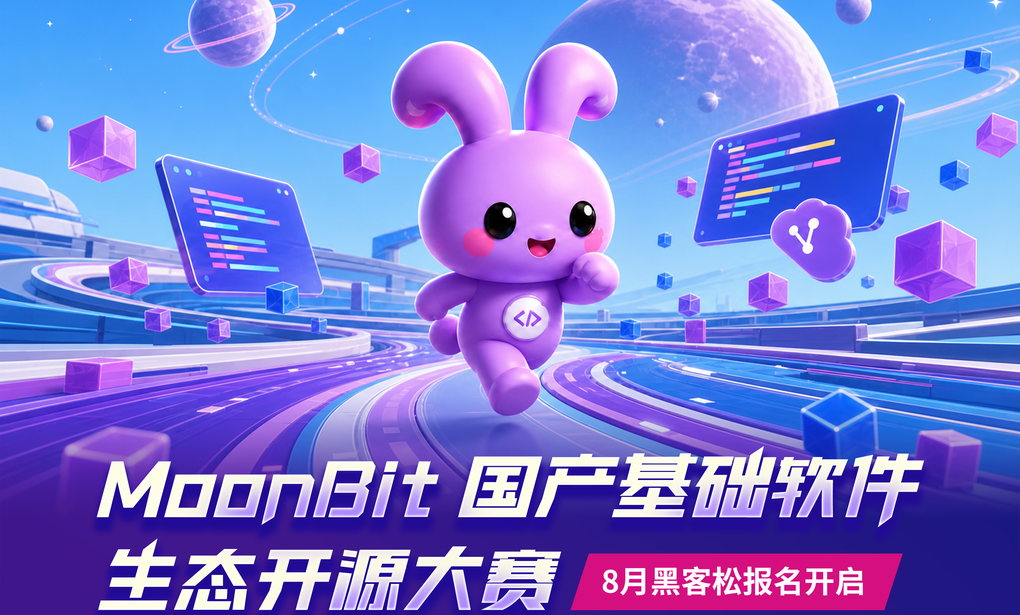
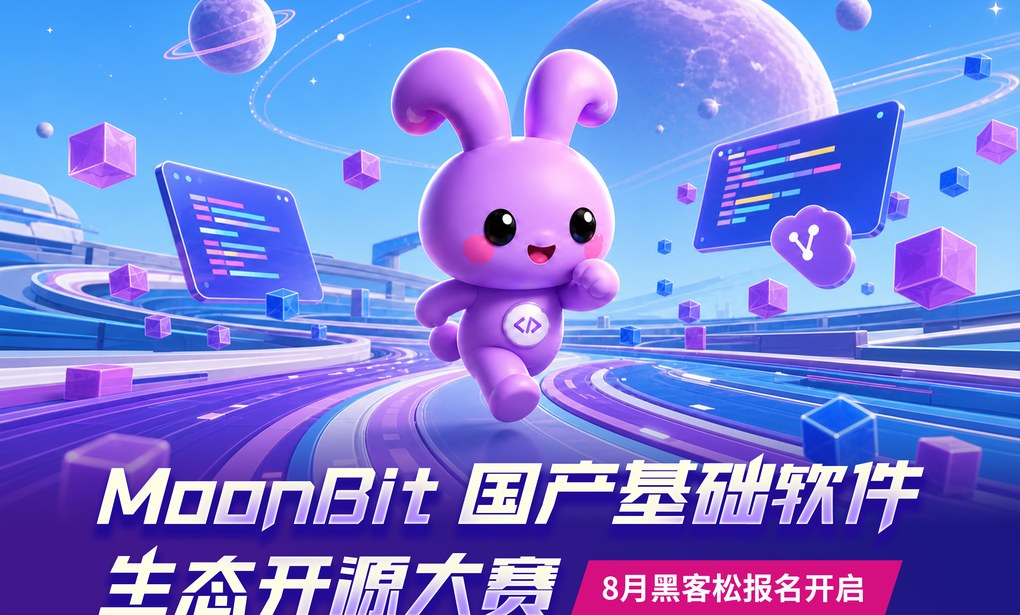
Replace August hackathon poster

diff --git a/site-assets/main.js b/site-assets/main.js
@@ -798,7 +798,7 @@ const _M0FP38zongen0116mgpic2026_2dsite4main31view__qq__float_2econstr_2f3848 = 
 const _M0FP38zongen0116mgpic2026_2dsite4main31view__qq__float_2econstr_2f3849 = 1;
 const _M0FP38zongen0116mgpic2026_2dsite4main31view__qq__float_2econstr_2f3850 = "noreferrer";
 const _M0FP38zongen0116mgpic2026_2dsite4main31view__qq__float_2econstr_2f3851 = "hackathon-poster-preview";
-const _M0FP38zongen0116mgpic2026_2dsite4main31view__qq__float_2econstr_2f3852 = "site-assets/hackathon-august-poster-preview.jpg?v=20260722-prod-1";
+const _M0FP38zongen0116mgpic2026_2dsite4main31view__qq__float_2econstr_2f3852 = "site-assets/hackathon-august-poster-preview.jpg?v=20260722-poster-2";
 const _M0FP38zongen0116mgpic2026_2dsite4main31view__qq__float_2econstr_2f3853 = "hackathon-poster-overlay";
 const _M0FP38zongen0116mgpic2026_2dsite4main31view__qq__float_2econstr_2f3854 = "hackathon-float-body";
 const _M0FP38zongen0116mgpic2026_2dsite4main31view__qq__float_2econstr_2f3855 = "hackathon-summary";
@@ -8973,7 +8973,7 @@ function _M0FP38zongen0116mgpic2026_2dsite4main12view__footer(model) {
   return _M0FP319moonbit_2dcommunity7rabbita4html6footerGRPB5ArrayGRP319moonbit_2dcommunity7rabbita4html4HtmlEE(_M0DTPC16option6OptionGRPB5ArrayGsEE4None__, undefined, _M0FP38zongen0116mgpic2026_2dsite4main28view__footer_2econstr_2f3836, undefined, -1, undefined, [_M0FP319moonbit_2dcommunity7rabbita4html3divGRPB5ArrayGRP319moonbit_2dcommunity7rabbita4html4HtmlEE(_M0DTPC16option6OptionGRPB5ArrayGsEE4None__, undefined, _M0FP38zongen0116mgpic2026_2dsite4main28view__footer_2econstr_2f3837, undefined, -1, undefined, undefined, undefined, undefined, undefined, undefined, undefined, [_M0FP319moonbit_2dcommunity7rabbita4html3divGRPB5ArrayGRP319moonbit_2dcommunity7rabbita4html4HtmlEE(_M0DTPC16option6OptionGRPB5ArrayGsEE4None__, undefined, _M0FP38zongen0116mgpic2026_2dsite4main28view__footer_2econstr_2f3838, undefined, -1, undefined, undefined, undefined, undefined, undefined, undefined, undefined, [_M0FP319moonbit_2dcommunity7rabbita4html6strongGsE(_M0DTPC16option6OptionGRPB5ArrayGsEE4None__, undefined, undefined, undefined, -1, undefined, _M0FP38zongen0116mgpic2026_2dsite4main1t(model.locale, "MoonBit 国产基础软件生态开源大赛", "MoonBit Open Source Contest")), _M0FP319moonbit_2dcommunity7rabbita4html1pGsE(_M0DTPC16option6OptionGRPB5ArrayGsEE4None__, undefined, undefined, undefined, -1, undefined, _M0FP38zongen0116mgpic2026_2dsite4main1t(model.locale, "2026 官方网站", "2026 MoonBit Open Source Ecosystem Competition"))]), _M0FP319moonbit_2dcommunity7rabbita4html3divGRPB5ArrayGRP319moonbit_2dcommunity7rabbita4html4HtmlEE(_M0DTPC16option6OptionGRPB5ArrayGsEE4None__, undefined, _M0FP38zongen0116mgpic2026_2dsite4main28view__footer_2econstr_2f3839, undefined, -1, undefined, undefined, undefined, undefined, undefined, undefined, undefined, [_M0FP319moonbit_2dcommunity7rabbita4html1aGsE(_M0DTPC16option6OptionGRPB5ArrayGsEE4None__, undefined, undefined, undefined, -1, "https://www.moonbitlang.cn/", _M0FP38zongen0116mgpic2026_2dsite4main28view__footer_2econstr_2f3840, _M0FP38zongen0116mgpic2026_2dsite4main28view__footer_2econstr_2f3841, undefined, undefined, _M0FP38zongen0116mgpic2026_2dsite4main1t(model.locale, "MoonBit 中文官网", "MoonBit website"), -1), _M0FP319moonbit_2dcommunity7rabbita4html1aGsE(_M0DTPC16option6OptionGRPB5ArrayGsEE4None__, undefined, undefined, undefined, -1, "https://mooncakes.io/", _M0FP38zongen0116mgpic2026_2dsite4main28view__footer_2econstr_2f3842, _M0FP38zongen0116mgpic2026_2dsite4main28view__footer_2econstr_2f3843, undefined, undefined, "Mooncakes", -1), _M0FP319moonbit_2dcommunity7rabbita4html1aGsE(_M0DTPC16option6OptionGRPB5ArrayGsEE4None__, undefined, undefined, undefined, -1, "https://github.com/zongen01/MGPIC2026", _M0FP38zongen0116mgpic2026_2dsite4main28view__footer_2econstr_2f3844, _M0FP38zongen0116mgpic2026_2dsite4main28view__footer_2econstr_2f3845, undefined, undefined, "GitHub", -1)])])]);
 }
 function _M0FP38zongen0116mgpic2026_2dsite4main15view__qq__float(model) {
-  return _M0FP319moonbit_2dcommunity7rabbita4html3divGRPB5ArrayGRP319moonbit_2dcommunity7rabbita4html4HtmlEE(_M0DTPC16option6OptionGRPB5ArrayGsEE4None__, undefined, _M0FP38zongen0116mgpic2026_2dsite4main31view__qq__float_2econstr_2f3847, undefined, -1, undefined, undefined, undefined, undefined, undefined, undefined, undefined, [_M0FP319moonbit_2dcommunity7rabbita4html1aGRPB5ArrayGRP319moonbit_2dcommunity7rabbita4html4HtmlEE(_M0DTPC16option6OptionGRPB5ArrayGsEE4None__, undefined, _M0FP38zongen0116mgpic2026_2dsite4main31view__qq__float_2econstr_2f3848, undefined, -1, "site-assets/hackathon-august-poster.jpg", _M0FP38zongen0116mgpic2026_2dsite4main31view__qq__float_2econstr_2f3849, _M0FP38zongen0116mgpic2026_2dsite4main31view__qq__float_2econstr_2f3850, undefined, undefined, [_M0FP319moonbit_2dcommunity7rabbita4html3imgGRP319moonbit_2dcommunity7rabbita4html4HtmlE(_M0DTPC16option6OptionGRPB5ArrayGsEE4None__, undefined, _M0FP38zongen0116mgpic2026_2dsite4main31view__qq__float_2econstr_2f3851, -1, _M0FP38zongen0116mgpic2026_2dsite4main31view__qq__float_2econstr_2f3852, _M0FP38zongen0116mgpic2026_2dsite4main1t(model.locale, "MoonBit 八月黑客松活动海报", "MoonBit August Hackathon poster"), undefined, undefined, undefined, undefined, undefined, undefined, undefined, undefined, _M0FP319moonbit_2dcommunity7rabbita4html7nothing), _M0FP319moonbit_2dcommunity7rabbita4html3divGRPB5ArrayGRP319moonbit_2dcommunity7rabbita4html4HtmlEE(_M0DTPC16option6OptionGRPB5ArrayGsEE4None__, undefined, _M0FP38zongen0116mgpic2026_2dsite4main31view__qq__float_2econstr_2f3853, undefined, -1, undefined, undefined, undefined, undefined, undefined, undefined, undefined, [_M0FP319moonbit_2dcommunity7rabbita4html4spanGsE(_M0DTPC16option6OptionGRPB5ArrayGsEE4None__, undefined, undefined, undefined, -1, undefined, _M0FP38zongen0116mgpic2026_2dsite4main1t(model.locale, "8月黑客松", "August Hackathon")), _M0FP319moonbit_2dcommunity7rabbita4html6strongGsE(_M0DTPC16option6OptionGRPB5ArrayGsEE4None__, undefined, undefined, undefined, -1, undefined, _M0FP38zongen0116mgpic2026_2dsite4main1t(model.locale, "国产基础软件生态开源大赛", "Open Source Ecosystem Contest"))])], -1), _M0FP319moonbit_2dcommunity7rabbita4html3divGRPB5ArrayGRP319moonbit_2dcommunity7rabbita4html4HtmlEE(_M0DTPC16option6OptionGRPB5ArrayGsEE4None__, undefined, _M0FP38zongen0116mgpic2026_2dsite4main31view__qq__float_2econstr_2f3854, undefined, -1, undefined, undefined, undefined, undefined, undefined, undefined, undefined, [_M0FP319moonbit_2dcommunity7rabbita4html3divGRPB5ArrayGRP319moonbit_2dcommunity7rabbita4html4HtmlEE(_M0DTPC16option6OptionGRPB5ArrayGsEE4None__, undefined, _M0FP38zongen0116mgpic2026_2dsite4main31view__qq__float_2econstr_2f3855, undefined, -1, undefined, undefined, undefined, undefined, undefined, undefined, undefined, [_M0FP319moonbit_2dcommunity7rabbita4html6strongGsE(_M0DTPC16option6OptionGRPB5ArrayGsEE4None__, undefined, undefined, undefined, -1, undefined, _M0FP38zongen0116mgpic2026_2dsite4main1t(model.locale, "活动说明", "About")), _M0FP319moonbit_2dcommunity7rabbita4html1pGsE(_M0DTPC16option6OptionGRPB5ArrayGsEE4None__, undefined, undefined, undefined, -1, undefined, _M0FP38zongen0116mgpic2026_2dsite4main1t(model.locale, "初审结束后，为回应开发者反馈，MoonBit 增设「8月黑客松」。", "Following developer feedback after the initial review, MoonBit is adding an August Hackathon.")), _M0FP319moonbit_2dcommunity7rabbita4html3divGRPB5ArrayGRP319moonbit_2dcommunity7rabbita4html4HtmlEE(_M0DTPC16option6OptionGRPB5ArrayGsEE4None__, undefined, _M0FP38zongen0116mgpic2026_2dsite4main31view__qq__float_2econstr_2f3856, undefined, -1, undefined, undefined, undefined, undefined, undefined, undefined, undefined, [_M0FP319moonbit_2dcommunity7rabbita4html4spanGsE(_M0DTPC16option6OptionGRPB5ArrayGsEE4None__, undefined, _M0FP38zongen0116mgpic2026_2dsite4main31view__qq__float_2econstr_2f3857, undefined, -1, undefined, _M0FP38zongen0116mgpic2026_2dsite4main1t(model.locale, "重要说明", "Important")), _M0FP319moonbit_2dcommunity7rabbita4html4spanGsE(_M0DTPC16option6OptionGRPB5ArrayGsEE4None__, undefined, _M0FP38zongen0116mgpic2026_2dsite4main31view__qq__float_2econstr_2f3858, undefined, -1, undefined, _M0FP38zongen0116mgpic2026_2dsite4main1t(model.locale, "规则与验收标准基本一致，", "Rules and acceptance standards remain broadly consistent,")), _M0FP319moonbit_2dcommunity7rabbita4html6strongGsE(_M0DTPC16option6OptionGRPB5ArrayGsEE4None__, undefined, undefined, undefined, -1, undefined, _M0FP38zongen0116mgpic2026_2dsite4main1t(model.locale, "但不参与决赛评选。", "but projects do not enter the contest finals."))]), _M0FP319moonbit_2dcommunity7rabbita4html1pGsE(_M0DTPC16option6OptionGRPB5ArrayGsEE4None__, undefined, _M0FP38zongen0116mgpic2026_2dsite4main31view__qq__float_2econstr_2f3859, undefined, -1, undefined, _M0FP38zongen0116mgpic2026_2dsite4main1t(model.locale, "欢迎提交全新项目；重复、拆分或简单修改项目不计入验收与奖励。", "New projects are welcome; duplicate, split, or lightly modified entries are not eligible for acceptance or rewards."))]), _M0FP319moonbit_2dcommunity7rabbita4html3divGRPB5ArrayGRP319moonbit_2dcommunity7rabbita4html4HtmlEE(_M0DTPC16option6OptionGRPB5ArrayGsEE4None__, undefined, _M0FP38zongen0116mgpic2026_2dsite4main31view__qq__float_2econstr_2f3860, undefined, -1, undefined, undefined, undefined, undefined, undefined, undefined, undefined, [_M0FP319moonbit_2dcommunity7rabbita4html4spanGsE(_M0DTPC16option6OptionGRPB5ArrayGsEE4None__, undefined, undefined, undefined, -1, undefined, _M0FP38zongen0116mgpic2026_2dsite4main1t(model.locale, "报名截止", "Deadline")), _M0FP319moonbit_2dcommunity7rabbita4html6strongGsE(_M0DTPC16option6OptionGRPB5ArrayGsEE4None__, undefined, undefined, undefined, -1, undefined, "8 月 24 日 24:00")]), _M0FP319moonbit_2dcommunity7rabbita4html3divGRPB5ArrayGRP319moonbit_2dcommunity7rabbita4html4HtmlEE(_M0DTPC16option6OptionGRPB5ArrayGsEE4None__, undefined, _M0FP38zongen0116mgpic2026_2dsite4main31view__qq__float_2econstr_2f3861, undefined, -1, undefined, undefined, undefined, undefined, undefined, undefined, undefined, [_M0FP319moonbit_2dcommunity7rabbita4html1aGRPB5ArrayGRP319moonbit_2dcommunity7rabbita4html4HtmlEE(_M0DTPC16option6OptionGRPB5ArrayGsEE4None__, undefined, _M0FP38zongen0116mgpic2026_2dsite4main31view__qq__float_2econstr_2f3862, undefined, -1, "#base-support", undefined, undefined, undefined, undefined, [_M0FP319moonbit_2dcommunity7rabbita4html6strongGsE(_M0DTPC16option6OptionGRPB5ArrayGsEE4None__, undefined, undefined, undefined, -1, undefined, _M0FP38zongen0116mgpic2026_2dsite4main1t(model.locale, "150 元 + 350 元", "RMB 150 + 350")), _M0FP319moonbit_2dcommunity7rabbita4html4spanGsE(_M0DTPC16option6OptionGRPB5ArrayGsEE4None__, undefined, undefined, undefined, -1, undefined, _M0FP38zongen0116mgpic2026_2dsite4main1t(model.locale, "启动支持 / 完成支持", "Kickoff / completion"))], -1), _M0FP319moonbit_2dcommunity7rabbita4html1aGRPB5ArrayGRP319moonbit_2dcommunity7rabbita4html4HtmlEE(_M0DTPC16option6OptionGRPB5ArrayGsEE4None__, undefined, _M0FP38zongen0116mgpic2026_2dsite4main31view__qq__float_2econstr_2f3863, undefined, -1, "#referral-reward", undefined, undefined, undefined, undefined, [_M0FP319moonbit_2dcommunity7rabbita4html6strongGsE(_M0DTPC16option6OptionGRPB5ArrayGsEE4None__, undefined, undefined, undefined, -1, undefined, "50 元/人"), _M0FP319moonbit_2dcommunity7rabbita4html4spanGsE(_M0DTPC16option6OptionGRPB5ArrayGsEE4None__, undefined, undefined, undefined, -1, undefined, _M0FP38zongen0116mgpic2026_2dsite4main1t(model.locale, "推荐奖励", "Referral"))], -1), _M0FP319moonbit_2dcommunity7rabbita4html1aGRPB5ArrayGRP319moonbit_2dcommunity7rabbita4html4HtmlEE(_M0DTPC16option6OptionGRPB5ArrayGsEE4None__, undefined, _M0FP38zongen0116mgpic2026_2dsite4main31view__qq__float_2econstr_2f3864, undefined, -1, "#compute", undefined, undefined, undefined, undefined, [_M0FP319moonbit_2dcommunity7rabbita4html6strongGsE(_M0DTPC16option6OptionGRPB5ArrayGsEE4None__, undefined, undefined, undefined, -1, undefined, _M0FP38zongen0116mgpic2026_2dsite4main1t(model.locale, "100 元/张", "RMB 100 / credit")), _M0FP319moonbit_2dcommunity7rabbita4html4spanGsE(_M0DTPC16option6OptionGRPB5ArrayGsEE4None__, undefined, undefined, undefined, -1, undefined, _M0FP38zongen0116mgpic2026_2dsite4main1t(model.locale, "GPU 算力券", "GPU credit"))], -1)]), _M0FP319moonbit_2dcommunity7rabbita4html3divGRPB5ArrayGRP319moonbit_2dcommunity7rabbita4html4HtmlEE(_M0DTPC16option6OptionGRPB5ArrayGsEE4None__, undefined, _M0FP38zongen0116mgpic2026_2dsite4main31view__qq__float_2econstr_2f3865, undefined, -1, undefined, undefined, undefined, undefined, undefined, undefined, undefined, [_M0FP319moonbit_2dcommunity7rabbita4html1aGsE(_M0DTPC16option6OptionGRPB5ArrayGsEE4None__, undefined, _M0FP38zongen0116mgpic2026_2dsite4main31view__qq__float_2econstr_2f3866, undefined, -1, "https://www.feishu.cn/share/base/form/shrcnfItHeB1viw56y3cGNGMqub?share_link_type=qrcode&ccm_open_type=form_qrcode", _M0FP38zongen0116mgpic2026_2dsite4main31view__qq__float_2econstr_2f3867, _M0FP38zongen0116mgpic2026_2dsite4main31view__qq__float_2econstr_2f3868, undefined, undefined, _M0FP38zongen0116mgpic2026_2dsite4main1t(model.locale, "立即报名", "Apply now"), -1), _M0FP319moonbit_2dcommunity7rabbita4html1aGsE(_M0DTPC16option6OptionGRPB5ArrayGsEE4None__, undefined, _M0FP38zongen0116mgpic2026_2dsite4main31view__qq__float_2econstr_2f3869, undefined, -1, "https://bxup9uklfcb.feishu.cn/wiki/KNrVwEVFziPHiGkQtwhc6w3gndd", _M0FP38zongen0116mgpic2026_2dsite4main31view__qq__float_2econstr_2f3870, _M0FP38zongen0116mgpic2026_2dsite4main31view__qq__float_2econstr_2f3871, undefined, undefined, _M0FP38zongen0116mgpic2026_2dsite4main1t(model.locale, "活动详情", "Details"), -1)]), _M0FP319moonbit_2dcommunity7rabbita4html3divGRPB5ArrayGRP319moonbit_2dcommunity7rabbita4html4HtmlEE(_M0DTPC16option6OptionGRPB5ArrayGsEE4None__, undefined, _M0FP38zongen0116mgpic2026_2dsite4main31view__qq__float_2econstr_2f3872, undefined, -1, undefined, undefined, undefined, undefined, undefined, undefined, undefined, [_M0FP319moonbit_2dcommunity7rabbita4html1aGRPB5ArrayGRP319moonbit_2dcommunity7rabbita4html4HtmlEE(_M0DTPC16option6OptionGRPB5ArrayGsEE4None__, undefined, _M0FP38zongen0116mgpic2026_2dsite4main31view__qq__float_2econstr_2f3873, undefined, -1, "https://www.feishu.cn/share/base/form/shrcnfItHeB1viw56y3cGNGMqub?share_link_type=qrcode&ccm_open_type=form_qrcode", _M0FP38zongen0116mgpic2026_2dsite4main31view__qq__float_2econstr_2f3874, _M0FP38zongen0116mgpic2026_2dsite4main31view__qq__float_2econstr_2f3875, undefined, undefined, [_M0FP319moonbit_2dcommunity7rabbita4html3divGRPB5ArrayGRP319moonbit_2dcommunity7rabbita4html4HtmlEE(_M0DTPC16option6OptionGRPB5ArrayGsEE4None__, undefined, _M0FP38zongen0116mgpic2026_2dsite4main31view__qq__float_2econstr_2f3876, undefined, -1, undefined, undefined, undefined, undefined, undefined, undefined, undefined, [_M0FP319moonbit_2dcommunity7rabbita4html3divGRPB5ArrayGRP319moonbit_2dcommunity7rabbita4html4HtmlEE(_M0DTPC16option6OptionGRPB5ArrayGsEE4None__, undefined, _M0FP38zongen0116mgpic2026_2dsite4main31view__qq__float_2econstr_2f3877, undefined, -1, undefined, undefined, undefined, undefined, undefined, undefined, undefined, [_M0FP319moonbit_2dcommunity7rabbita4html3imgGRP319moonbit_2dcommunity7rabbita4html4HtmlE(_M0DTPC16option6OptionGRPB5ArrayGsEE4None__, undefined, undefined, -1, _M0FP38zongen0116mgpic2026_2dsite4main31view__qq__float_2econstr_2f3878, _M0FP38zongen0116mgpic2026_2dsite4main1t(model.locale, "赛事报名二维码", "Event registration QR code"), undefined, undefined, undefined, undefined, undefined, undefined, undefined, undefined, _M0FP319moonbit_2dcommunity7rabbita4html7nothing)])]), _M0FP319moonbit_2dcommunity7rabbita4html6strongGsE(_M0DTPC16option6OptionGRPB5ArrayGsEE4None__, undefined, undefined, undefined, -1, undefined, _M0FP38zongen0116mgpic2026_2dsite4main1t(model.locale, "报名二维码", "Registration"))], -1), _M0FP319moonbit_2dcommunity7rabbita4html3divGRPB5ArrayGRP319moonbit_2dcommunity7rabbita4html4HtmlEE(_M0DTPC16option6OptionGRPB5ArrayGsEE4None__, undefined, _M0FP38zongen0116mgpic2026_2dsite4main31view__qq__float_2econstr_2f3879, undefined, -1, undefined, undefined, undefined, undefined, undefined, undefined, undefined, [_M0FP319moonbit_2dcommunity7rabbita4html3divGRPB5ArrayGRP319moonbit_2dcommunity7rabbita4html4HtmlEE(_M0DTPC16option6OptionGRPB5ArrayGsEE4None__, undefined, _M0FP38zongen0116mgpic2026_2dsite4main31view__qq__float_2econstr_2f3880, undefined, -1, undefined, undefined, undefined, undefined, undefined, undefined, undefined, [_M0FP319moonbit_2dcommunity7rabbita4html3imgGRP319moonbit_2dcommunity7rabbita4html4HtmlE(_M0DTPC16option6OptionGRPB5ArrayGsEE4None__, undefined, undefined, -1, _M0FP38zongen0116mgpic2026_2dsite4main31view__qq__float_2econstr_2f3881, _M0FP38zongen0116mgpic2026_2dsite4main1t(model.locale, "赛事交流群二维码", "Event group QR code"), undefined, undefined, undefined, undefined, undefined, undefined, undefined, undefined, _M0FP319moonbit_2dcommunity7rabbita4html7nothing)]), _M0FP319moonbit_2dcommunity7rabbita4html6strongGsE(_M0DTPC16option6OptionGRPB5ArrayGsEE4None__, undefined, undefined, undefined, -1, undefined, _M0FP38zongen0116mgpic2026_2dsite4main1t(model.locale, "赛事交流群", "Event group"))])]), _M0FP319moonbit_2dcommunity7rabbita4html1pGsE(_M0DTPC16option6OptionGRPB5ArrayGsEE4None__, undefined, _M0FP38zongen0116mgpic2026_2dsite4main31view__qq__float_2econstr_2f3882, undefined, -1, undefined, _M0FP38zongen0116mgpic2026_2dsite4main1t(model.locale, "完成报名并通过审核后参与项目开发与验收。", "Apply and pass review to join project development and acceptance."))])]);
+  return _M0FP319moonbit_2dcommunity7rabbita4html3divGRPB5ArrayGRP319moonbit_2dcommunity7rabbita4html4HtmlEE(_M0DTPC16option6OptionGRPB5ArrayGsEE4None__, undefined, _M0FP38zongen0116mgpic2026_2dsite4main31view__qq__float_2econstr_2f3847, undefined, -1, undefined, undefined, undefined, undefined, undefined, undefined, undefined, [_M0FP319moonbit_2dcommunity7rabbita4html1aGRPB5ArrayGRP319moonbit_2dcommunity7rabbita4html4HtmlEE(_M0DTPC16option6OptionGRPB5ArrayGsEE4None__, undefined, _M0FP38zongen0116mgpic2026_2dsite4main31view__qq__float_2econstr_2f3848, undefined, -1, "site-assets/hackathon-august-poster.jpg?v=20260722-poster-2", _M0FP38zongen0116mgpic2026_2dsite4main31view__qq__float_2econstr_2f3849, _M0FP38zongen0116mgpic2026_2dsite4main31view__qq__float_2econstr_2f3850, undefined, undefined, [_M0FP319moonbit_2dcommunity7rabbita4html3imgGRP319moonbit_2dcommunity7rabbita4html4HtmlE(_M0DTPC16option6OptionGRPB5ArrayGsEE4None__, undefined, _M0FP38zongen0116mgpic2026_2dsite4main31view__qq__float_2econstr_2f3851, -1, _M0FP38zongen0116mgpic2026_2dsite4main31view__qq__float_2econstr_2f3852, _M0FP38zongen0116mgpic2026_2dsite4main1t(model.locale, "MoonBit 八月黑客松活动海报", "MoonBit August Hackathon poster"), undefined, undefined, undefined, undefined, undefined, undefined, undefined, undefined, _M0FP319moonbit_2dcommunity7rabbita4html7nothing), _M0FP319moonbit_2dcommunity7rabbita4html3divGRPB5ArrayGRP319moonbit_2dcommunity7rabbita4html4HtmlEE(_M0DTPC16option6OptionGRPB5ArrayGsEE4None__, undefined, _M0FP38zongen0116mgpic2026_2dsite4main31view__qq__float_2econstr_2f3853, undefined, -1, undefined, undefined, undefined, undefined, undefined, undefined, undefined, [_M0FP319moonbit_2dcommunity7rabbita4html4spanGsE(_M0DTPC16option6OptionGRPB5ArrayGsEE4None__, undefined, undefined, undefined, -1, undefined, _M0FP38zongen0116mgpic2026_2dsite4main1t(model.locale, "8月黑客松", "August Hackathon")), _M0FP319moonbit_2dcommunity7rabbita4html6strongGsE(_M0DTPC16option6OptionGRPB5ArrayGsEE4None__, undefined, undefined, undefined, -1, undefined, _M0FP38zongen0116mgpic2026_2dsite4main1t(model.locale, "国产基础软件生态开源大赛", "Open Source Ecosystem Contest"))])], -1), _M0FP319moonbit_2dcommunity7rabbita4html3divGRPB5ArrayGRP319moonbit_2dcommunity7rabbita4html4HtmlEE(_M0DTPC16option6OptionGRPB5ArrayGsEE4None__, undefined, _M0FP38zongen0116mgpic2026_2dsite4main31view__qq__float_2econstr_2f3854, undefined, -1, undefined, undefined, undefined, undefined, undefined, undefined, undefined, [_M0FP319moonbit_2dcommunity7rabbita4html3divGRPB5ArrayGRP319moonbit_2dcommunity7rabbita4html4HtmlEE(_M0DTPC16option6OptionGRPB5ArrayGsEE4None__, undefined, _M0FP38zongen0116mgpic2026_2dsite4main31view__qq__float_2econstr_2f3855, undefined, -1, undefined, undefined, undefined, undefined, undefined, undefined, undefined, [_M0FP319moonbit_2dcommunity7rabbita4html6strongGsE(_M0DTPC16option6OptionGRPB5ArrayGsEE4None__, undefined, undefined, undefined, -1, undefined, _M0FP38zongen0116mgpic2026_2dsite4main1t(model.locale, "活动说明", "About")), _M0FP319moonbit_2dcommunity7rabbita4html1pGsE(_M0DTPC16option6OptionGRPB5ArrayGsEE4None__, undefined, undefined, undefined, -1, undefined, _M0FP38zongen0116mgpic2026_2dsite4main1t(model.locale, "初审结束后，为回应开发者反馈，MoonBit 增设「8月黑客松」。", "Following developer feedback after the initial review, MoonBit is adding an August Hackathon.")), _M0FP319moonbit_2dcommunity7rabbita4html3divGRPB5ArrayGRP319moonbit_2dcommunity7rabbita4html4HtmlEE(_M0DTPC16option6OptionGRPB5ArrayGsEE4None__, undefined, _M0FP38zongen0116mgpic2026_2dsite4main31view__qq__float_2econstr_2f3856, undefined, -1, undefined, undefined, undefined, undefined, undefined, undefined, undefined, [_M0FP319moonbit_2dcommunity7rabbita4html4spanGsE(_M0DTPC16option6OptionGRPB5ArrayGsEE4None__, undefined, _M0FP38zongen0116mgpic2026_2dsite4main31view__qq__float_2econstr_2f3857, undefined, -1, undefined, _M0FP38zongen0116mgpic2026_2dsite4main1t(model.locale, "重要说明", "Important")), _M0FP319moonbit_2dcommunity7rabbita4html4spanGsE(_M0DTPC16option6OptionGRPB5ArrayGsEE4None__, undefined, _M0FP38zongen0116mgpic2026_2dsite4main31view__qq__float_2econstr_2f3858, undefined, -1, undefined, _M0FP38zongen0116mgpic2026_2dsite4main1t(model.locale, "规则与验收标准基本一致，", "Rules and acceptance standards remain broadly consistent,")), _M0FP319moonbit_2dcommunity7rabbita4html6strongGsE(_M0DTPC16option6OptionGRPB5ArrayGsEE4None__, undefined, undefined, undefined, -1, undefined, _M0FP38zongen0116mgpic2026_2dsite4main1t(model.locale, "但不参与决赛评选。", "but projects do not enter the contest finals."))]), _M0FP319moonbit_2dcommunity7rabbita4html1pGsE(_M0DTPC16option6OptionGRPB5ArrayGsEE4None__, undefined, _M0FP38zongen0116mgpic2026_2dsite4main31view__qq__float_2econstr_2f3859, undefined, -1, undefined, _M0FP38zongen0116mgpic2026_2dsite4main1t(model.locale, "欢迎提交全新项目；重复、拆分或简单修改项目不计入验收与奖励。", "New projects are welcome; duplicate, split, or lightly modified entries are not eligible for acceptance or rewards."))]), _M0FP319moonbit_2dcommunity7rabbita4html3divGRPB5ArrayGRP319moonbit_2dcommunity7rabbita4html4HtmlEE(_M0DTPC16option6OptionGRPB5ArrayGsEE4None__, undefined, _M0FP38zongen0116mgpic2026_2dsite4main31view__qq__float_2econstr_2f3860, undefined, -1, undefined, undefined, undefined, undefined, undefined, undefined, undefined, [_M0FP319moonbit_2dcommunity7rabbita4html4spanGsE(_M0DTPC16option6OptionGRPB5ArrayGsEE4None__, undefined, undefined, undefined, -1, undefined, _M0FP38zongen0116mgpic2026_2dsite4main1t(model.locale, "报名截止", "Deadline")), _M0FP319moonbit_2dcommunity7rabbita4html6strongGsE(_M0DTPC16option6OptionGRPB5ArrayGsEE4None__, undefined, undefined, undefined, -1, undefined, "8 月 24 日 24:00")]), _M0FP319moonbit_2dcommunity7rabbita4html3divGRPB5ArrayGRP319moonbit_2dcommunity7rabbita4html4HtmlEE(_M0DTPC16option6OptionGRPB5ArrayGsEE4None__, undefined, _M0FP38zongen0116mgpic2026_2dsite4main31view__qq__float_2econstr_2f3861, undefined, -1, undefined, undefined, undefined, undefined, undefined, undefined, undefined, [_M0FP319moonbit_2dcommunity7rabbita4html1aGRPB5ArrayGRP319moonbit_2dcommunity7rabbita4html4HtmlEE(_M0DTPC16option6OptionGRPB5ArrayGsEE4None__, undefined, _M0FP38zongen0116mgpic2026_2dsite4main31view__qq__float_2econstr_2f3862, undefined, -1, "#base-support", undefined, undefined, undefined, undefined, [_M0FP319moonbit_2dcommunity7rabbita4html6strongGsE(_M0DTPC16option6OptionGRPB5ArrayGsEE4None__, undefined, undefined, undefined, -1, undefined, _M0FP38zongen0116mgpic2026_2dsite4main1t(model.locale, "150 元 + 350 元", "RMB 150 + 350")), _M0FP319moonbit_2dcommunity7rabbita4html4spanGsE(_M0DTPC16option6OptionGRPB5ArrayGsEE4None__, undefined, undefined, undefined, -1, undefined, _M0FP38zongen0116mgpic2026_2dsite4main1t(model.locale, "启动支持 / 完成支持", "Kickoff / completion"))], -1), _M0FP319moonbit_2dcommunity7rabbita4html1aGRPB5ArrayGRP319moonbit_2dcommunity7rabbita4html4HtmlEE(_M0DTPC16option6OptionGRPB5ArrayGsEE4None__, undefined, _M0FP38zongen0116mgpic2026_2dsite4main31view__qq__float_2econstr_2f3863, undefined, -1, "#referral-reward", undefined, undefined, undefined, undefined, [_M0FP319moonbit_2dcommunity7rabbita4html6strongGsE(_M0DTPC16option6OptionGRPB5ArrayGsEE4None__, undefined, undefined, undefined, -1, undefined, "50 元/人"), _M0FP319moonbit_2dcommunity7rabbita4html4spanGsE(_M0DTPC16option6OptionGRPB5ArrayGsEE4None__, undefined, undefined, undefined, -1, undefined, _M0FP38zongen0116mgpic2026_2dsite4main1t(model.locale, "推荐奖励", "Referral"))], -1), _M0FP319moonbit_2dcommunity7rabbita4html1aGRPB5ArrayGRP319moonbit_2dcommunity7rabbita4html4HtmlEE(_M0DTPC16option6OptionGRPB5ArrayGsEE4None__, undefined, _M0FP38zongen0116mgpic2026_2dsite4main31view__qq__float_2econstr_2f3864, undefined, -1, "#compute", undefined, undefined, undefined, undefined, [_M0FP319moonbit_2dcommunity7rabbita4html6strongGsE(_M0DTPC16option6OptionGRPB5ArrayGsEE4None__, undefined, undefined, undefined, -1, undefined, _M0FP38zongen0116mgpic2026_2dsite4main1t(model.locale, "100 元/张", "RMB 100 / credit")), _M0FP319moonbit_2dcommunity7rabbita4html4spanGsE(_M0DTPC16option6OptionGRPB5ArrayGsEE4None__, undefined, undefined, undefined, -1, undefined, _M0FP38zongen0116mgpic2026_2dsite4main1t(model.locale, "GPU 算力券", "GPU credit"))], -1)]), _M0FP319moonbit_2dcommunity7rabbita4html3divGRPB5ArrayGRP319moonbit_2dcommunity7rabbita4html4HtmlEE(_M0DTPC16option6OptionGRPB5ArrayGsEE4None__, undefined, _M0FP38zongen0116mgpic2026_2dsite4main31view__qq__float_2econstr_2f3865, undefined, -1, undefined, undefined, undefined, undefined, undefined, undefined, undefined, [_M0FP319moonbit_2dcommunity7rabbita4html1aGsE(_M0DTPC16option6OptionGRPB5ArrayGsEE4None__, undefined, _M0FP38zongen0116mgpic2026_2dsite4main31view__qq__float_2econstr_2f3866, undefined, -1, "https://www.feishu.cn/share/base/form/shrcnfItHeB1viw56y3cGNGMqub?share_link_type=qrcode&ccm_open_type=form_qrcode", _M0FP38zongen0116mgpic2026_2dsite4main31view__qq__float_2econstr_2f3867, _M0FP38zongen0116mgpic2026_2dsite4main31view__qq__float_2econstr_2f3868, undefined, undefined, _M0FP38zongen0116mgpic2026_2dsite4main1t(model.locale, "立即报名", "Apply now"), -1), _M0FP319moonbit_2dcommunity7rabbita4html1aGsE(_M0DTPC16option6OptionGRPB5ArrayGsEE4None__, undefined, _M0FP38zongen0116mgpic2026_2dsite4main31view__qq__float_2econstr_2f3869, undefined, -1, "https://bxup9uklfcb.feishu.cn/wiki/KNrVwEVFziPHiGkQtwhc6w3gndd", _M0FP38zongen0116mgpic2026_2dsite4main31view__qq__float_2econstr_2f3870, _M0FP38zongen0116mgpic2026_2dsite4main31view__qq__float_2econstr_2f3871, undefined, undefined, _M0FP38zongen0116mgpic2026_2dsite4main1t(model.locale, "活动详情", "Details"), -1)]), _M0FP319moonbit_2dcommunity7rabbita4html3divGRPB5ArrayGRP319moonbit_2dcommunity7rabbita4html4HtmlEE(_M0DTPC16option6OptionGRPB5ArrayGsEE4None__, undefined, _M0FP38zongen0116mgpic2026_2dsite4main31view__qq__float_2econstr_2f3872, undefined, -1, undefined, undefined, undefined, undefined, undefined, undefined, undefined, [_M0FP319moonbit_2dcommunity7rabbita4html1aGRPB5ArrayGRP319moonbit_2dcommunity7rabbita4html4HtmlEE(_M0DTPC16option6OptionGRPB5ArrayGsEE4None__, undefined, _M0FP38zongen0116mgpic2026_2dsite4main31view__qq__float_2econstr_2f3873, undefined, -1, "https://www.feishu.cn/share/base/form/shrcnfItHeB1viw56y3cGNGMqub?share_link_type=qrcode&ccm_open_type=form_qrcode", _M0FP38zongen0116mgpic2026_2dsite4main31view__qq__float_2econstr_2f3874, _M0FP38zongen0116mgpic2026_2dsite4main31view__qq__float_2econstr_2f3875, undefined, undefined, [_M0FP319moonbit_2dcommunity7rabbita4html3divGRPB5ArrayGRP319moonbit_2dcommunity7rabbita4html4HtmlEE(_M0DTPC16option6OptionGRPB5ArrayGsEE4None__, undefined, _M0FP38zongen0116mgpic2026_2dsite4main31view__qq__float_2econstr_2f3876, undefined, -1, undefined, undefined, undefined, undefined, undefined, undefined, undefined, [_M0FP319moonbit_2dcommunity7rabbita4html3divGRPB5ArrayGRP319moonbit_2dcommunity7rabbita4html4HtmlEE(_M0DTPC16option6OptionGRPB5ArrayGsEE4None__, undefined, _M0FP38zongen0116mgpic2026_2dsite4main31view__qq__float_2econstr_2f3877, undefined, -1, undefined, undefined, undefined, undefined, undefined, undefined, undefined, [_M0FP319moonbit_2dcommunity7rabbita4html3imgGRP319moonbit_2dcommunity7rabbita4html4HtmlE(_M0DTPC16option6OptionGRPB5ArrayGsEE4None__, undefined, undefined, -1, _M0FP38zongen0116mgpic2026_2dsite4main31view__qq__float_2econstr_2f3878, _M0FP38zongen0116mgpic2026_2dsite4main1t(model.locale, "赛事报名二维码", "Event registration QR code"), undefined, undefined, undefined, undefined, undefined, undefined, undefined, undefined, _M0FP319moonbit_2dcommunity7rabbita4html7nothing)])]), _M0FP319moonbit_2dcommunity7rabbita4html6strongGsE(_M0DTPC16option6OptionGRPB5ArrayGsEE4None__, undefined, undefined, undefined, -1, undefined, _M0FP38zongen0116mgpic2026_2dsite4main1t(model.locale, "报名二维码", "Registration"))], -1), _M0FP319moonbit_2dcommunity7rabbita4html3divGRPB5ArrayGRP319moonbit_2dcommunity7rabbita4html4HtmlEE(_M0DTPC16option6OptionGRPB5ArrayGsEE4None__, undefined, _M0FP38zongen0116mgpic2026_2dsite4main31view__qq__float_2econstr_2f3879, undefined, -1, undefined, undefined, undefined, undefined, undefined, undefined, undefined, [_M0FP319moonbit_2dcommunity7rabbita4html3divGRPB5ArrayGRP319moonbit_2dcommunity7rabbita4html4HtmlEE(_M0DTPC16option6OptionGRPB5ArrayGsEE4None__, undefined, _M0FP38zongen0116mgpic2026_2dsite4main31view__qq__float_2econstr_2f3880, undefined, -1, undefined, undefined, undefined, undefined, undefined, undefined, undefined, [_M0FP319moonbit_2dcommunity7rabbita4html3imgGRP319moonbit_2dcommunity7rabbita4html4HtmlE(_M0DTPC16option6OptionGRPB5ArrayGsEE4None__, undefined, undefined, -1, _M0FP38zongen0116mgpic2026_2dsite4main31view__qq__float_2econstr_2f3881, _M0FP38zongen0116mgpic2026_2dsite4main1t(model.locale, "赛事交流群二维码", "Event group QR code"), undefined, undefined, undefined, undefined, undefined, undefined, undefined, undefined, _M0FP319moonbit_2dcommunity7rabbita4html7nothing)]), _M0FP319moonbit_2dcommunity7rabbita4html6strongGsE(_M0DTPC16option6OptionGRPB5ArrayGsEE4None__, undefined, undefined, undefined, -1, undefined, _M0FP38zongen0116mgpic2026_2dsite4main1t(model.locale, "赛事交流群", "Event group"))])]), _M0FP319moonbit_2dcommunity7rabbita4html1pGsE(_M0DTPC16option6OptionGRPB5ArrayGsEE4None__, undefined, _M0FP38zongen0116mgpic2026_2dsite4main31view__qq__float_2econstr_2f3882, undefined, -1, undefined, _M0FP38zongen0116mgpic2026_2dsite4main1t(model.locale, "完成报名并通过审核后参与项目开发与验收。", "Apply and pass review to join project development and acceptance."))])]);
 }
 function _M0FP38zongen0116mgpic2026_2dsite4main4view(dispatch, model) {
   const has_qr_float = !_M0FP38zongen0116mgpic2026_2dsite4main20is__standalone__page();

diff --git a/progress.html b/progress.html
@@ -9,8 +9,8 @@
       content="MoonBit 国产基础软件生态开源大赛比赛进度页。"
     />
     <meta name="theme-color" content="#6f46ff" />
-    <link rel="stylesheet" href="site-assets/styles.css?v=20260722-august-hackathon-1" />
-    <script src="site-assets/main.js?v=20260722-august-hackathon-1" type="module"></script>
+    <link rel="stylesheet" href="site-assets/styles.css?v=20260722-poster-2" />
+    <script src="site-assets/main.js?v=20260722-poster-2" type="module"></script>
     <script src="site-assets/progress.js?v=20260506-registration-names-1" type="module"></script>
   </head>
   <body>

diff --git a/register.html b/register.html
@@ -9,8 +9,8 @@
       content="MoonBit 国产基础软件生态开源大赛报名页面。"
     />
     <meta name="theme-color" content="#6f46ff" />
-    <link rel="stylesheet" href="site-assets/styles.css?v=20260722-august-hackathon-1" />
-    <script src="site-assets/main.js?v=20260722-august-hackathon-1" type="module"></script>
+    <link rel="stylesheet" href="site-assets/styles.css?v=20260722-poster-2" />
+    <script src="site-assets/main.js?v=20260722-poster-2" type="module"></script>
     <script src="site-assets/progress.js?v=20260506-registration-names-1" type="module"></script>
   </head>
   <body>

diff --git a/showcase.html b/showcase.html
@@ -9,8 +9,8 @@
       content="MoonBit 国产基础软件生态开源大赛优秀作品展示墙。"
     />
     <meta name="theme-color" content="#6f46ff" />
-    <link rel="stylesheet" href="site-assets/styles.css?v=20260722-august-hackathon-1" />
-    <script src="site-assets/main.js?v=20260722-august-hackathon-1" type="module"></script>
+    <link rel="stylesheet" href="site-assets/styles.css?v=20260722-poster-2" />
+    <script src="site-assets/main.js?v=20260722-poster-2" type="module"></script>
     <script src="site-assets/showcase.js?v=20260429-pages-1" type="module"></script>
   </head>
   <body>

diff --git a/index.html b/index.html
@@ -9,8 +9,8 @@
       content="MoonBit 国产基础软件生态开源大赛：开源库共建、MoonBit 生态包建设与高校开源实践。"
     />
     <meta name="theme-color" content="#6f46ff" />
-    <link rel="stylesheet" href="site-assets/styles.css?v=20260722-august-hackathon-1" />
-    <script src="site-assets/main.js?v=20260722-august-hackathon-1" type="module"></script>
+    <link rel="stylesheet" href="site-assets/styles.css?v=20260722-poster-2" />
+    <script src="site-assets/main.js?v=20260722-poster-2" type="module"></script>
   </head>
   <body>
     <div id="mgpic-app"></div>

diff --git a/preview-20260617.html b/preview-20260617.html
@@ -9,8 +9,8 @@
       content="Preview entry for the 2026 MoonBit open source ecosystem competition website."
     />
     <meta name="theme-color" content="#6f46ff" />
-    <link rel="stylesheet" href="site-assets/styles.css?v=20260722-august-hackathon-1" />
-    <script src="site-assets/main.js?v=20260722-august-hackathon-1" type="module"></script>
+    <link rel="stylesheet" href="site-assets/styles.css?v=20260722-poster-2" />
+    <script src="site-assets/main.js?v=20260722-poster-2" type="module"></script>
   </head>
   <body>
     <div id="mgpic-app"></div>

diff --git a/preview.html b/preview.html
@@ -9,8 +9,8 @@
       content="Preview entry for the 2026 MoonBit open source ecosystem competition website."
     />
     <meta name="theme-color" content="#6f46ff" />
-    <link rel="stylesheet" href="site-assets/styles.css?v=20260722-august-hackathon-1" />
-    <script src="site-assets/main.js?v=20260722-august-hackathon-1" type="module"></script>
+    <link rel="stylesheet" href="site-assets/styles.css?v=20260722-poster-2" />
+    <script src="site-assets/main.js?v=20260722-poster-2" type="module"></script>
   </head>
   <body>
     <div id="mgpic-app"></div>

diff --git a/admin.html b/admin.html
@@ -9,7 +9,7 @@
       content="MoonBit 国产基础软件生态开源大赛报名与比赛进度后台管理页。"
     />
     <meta name="theme-color" content="#6f46ff" />
-    <link rel="stylesheet" href="site-assets/styles.css?v=20260722-august-hackathon-1" />
+    <link rel="stylesheet" href="site-assets/styles.css?v=20260722-poster-2" />
     <script src="site-assets/admin.js?v=20260506-admin-data-cards-1" type="module"></script>
   </head>
   <body class="site site--light admin-page">
